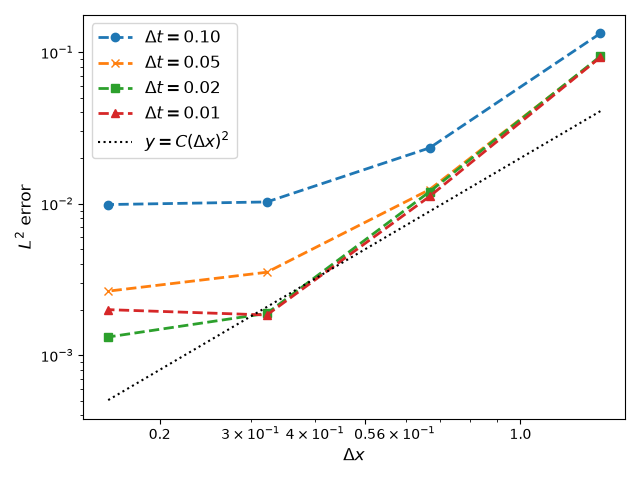
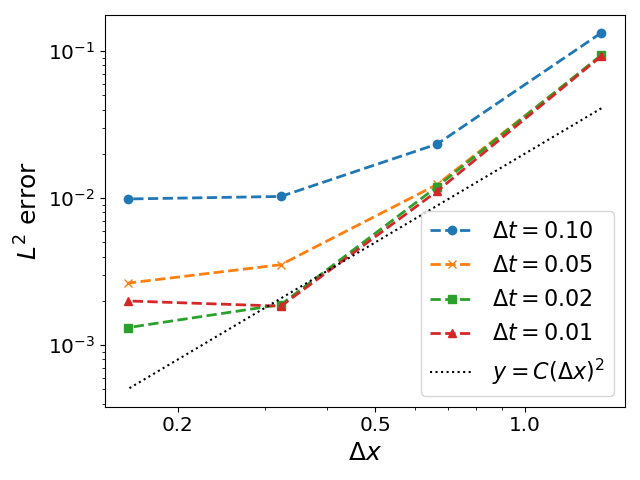
change matplotlib font size

diff --git a/numerical_experiments/horung_messing_test.py b/numerical_experiments/horung_messing_test.py
@@ -22,14 +22,14 @@ nlevels = [3, 4, 5, 6]  # levels of refinement
 
 ### Set up gpu specs ###
 is_gpu = torch.cuda.is_available() # Check if GPU is available 
-device = torch.device("cuda:0")
+device = torch.device("cpu")
 torch.set_default_device(device)
 print(f"Running on device {device}")
 
 L2_error = []      # stores the error
-
-torch.cuda.synchronize()
-start = time.perf_counter()
+#
+#torch.cuda.synchronize()
+#start = time.perf_counter()
 
 with torch.inference_mode():
     for nx in nx_array:
@@ -75,9 +75,9 @@ with torch.inference_mode():
 
         L2_error.append(L2_error_nx)
 
-torch.cuda.synchronize()
-end = time.perf_counter()
-print(f"Time taken to run simulation: {end - start:.3f} s")
+#torch.cuda.synchronize()
+#end = time.perf_counter()
+#print(f"Time taken to run simulation: {end - start:.3f} s")
 
 
 dx = length / nx_array
@@ -95,11 +95,12 @@ for i in range(len(dt_array)):
 ax1.plot(dx, 0.02 * dx ** 2, color="black", linestyle="dotted", label=r"$y= C(\Delta x)^2$")
 ax1.set_xscale("log")
 ax1.set_yscale("log")
+ax1.tick_params(labelsize="x-large")
 ax1.set_xticks([0.2, 0.5, 1.])
 ax1.get_xaxis().set_major_formatter(ScalarFormatter())
-ax1.set_xlabel(r"$\Delta x$", fontsize=12)
-ax1.set_ylabel(r"$L^2$ error", fontsize=12)
-ax1.legend(fontsize=12)
+ax1.set_xlabel(r"$\Delta x$", fontsize=18)
+ax1.set_ylabel(r"$L^2$ error", fontsize=18)
+ax1.legend(fontsize=16)
 plt.tight_layout()
 if PC == True:
     plt.savefig(f"../plots/hm_pc.png")

diff --git a/numerical_experiments/horung_messing_FEM_test.py b/numerical_experiments/horung_messing_FEM_test.py
@@ -56,11 +56,12 @@ for i in range(len(dt_array)):
 ax1.plot(dx, 0.02 * dx ** 2, color="black", linestyle="dotted", label=r"$y= C(\Delta x)^2$")
 ax1.set_xscale("log")
 ax1.set_yscale("log")
+ax1.tick_params(labelsize="x-large")
 ax1.set_xticks([0.2, 0.5, 1.])
 ax1.get_xaxis().set_major_formatter(ScalarFormatter())
-ax1.set_xlabel(r"$\Delta x$", fontsize=12)
-ax1.set_ylabel(r"$L^2$ error", fontsize=12)
-ax1.legend(fontsize=12)
+ax1.set_xlabel(r"$\Delta x$", fontsize=18)
+ax1.set_ylabel(r"$L^2$ error", fontsize=18)
+ax1.legend(fontsize=16)
 plt.tight_layout()
 plt.savefig(f"../plots/hm_fem.png")
 
